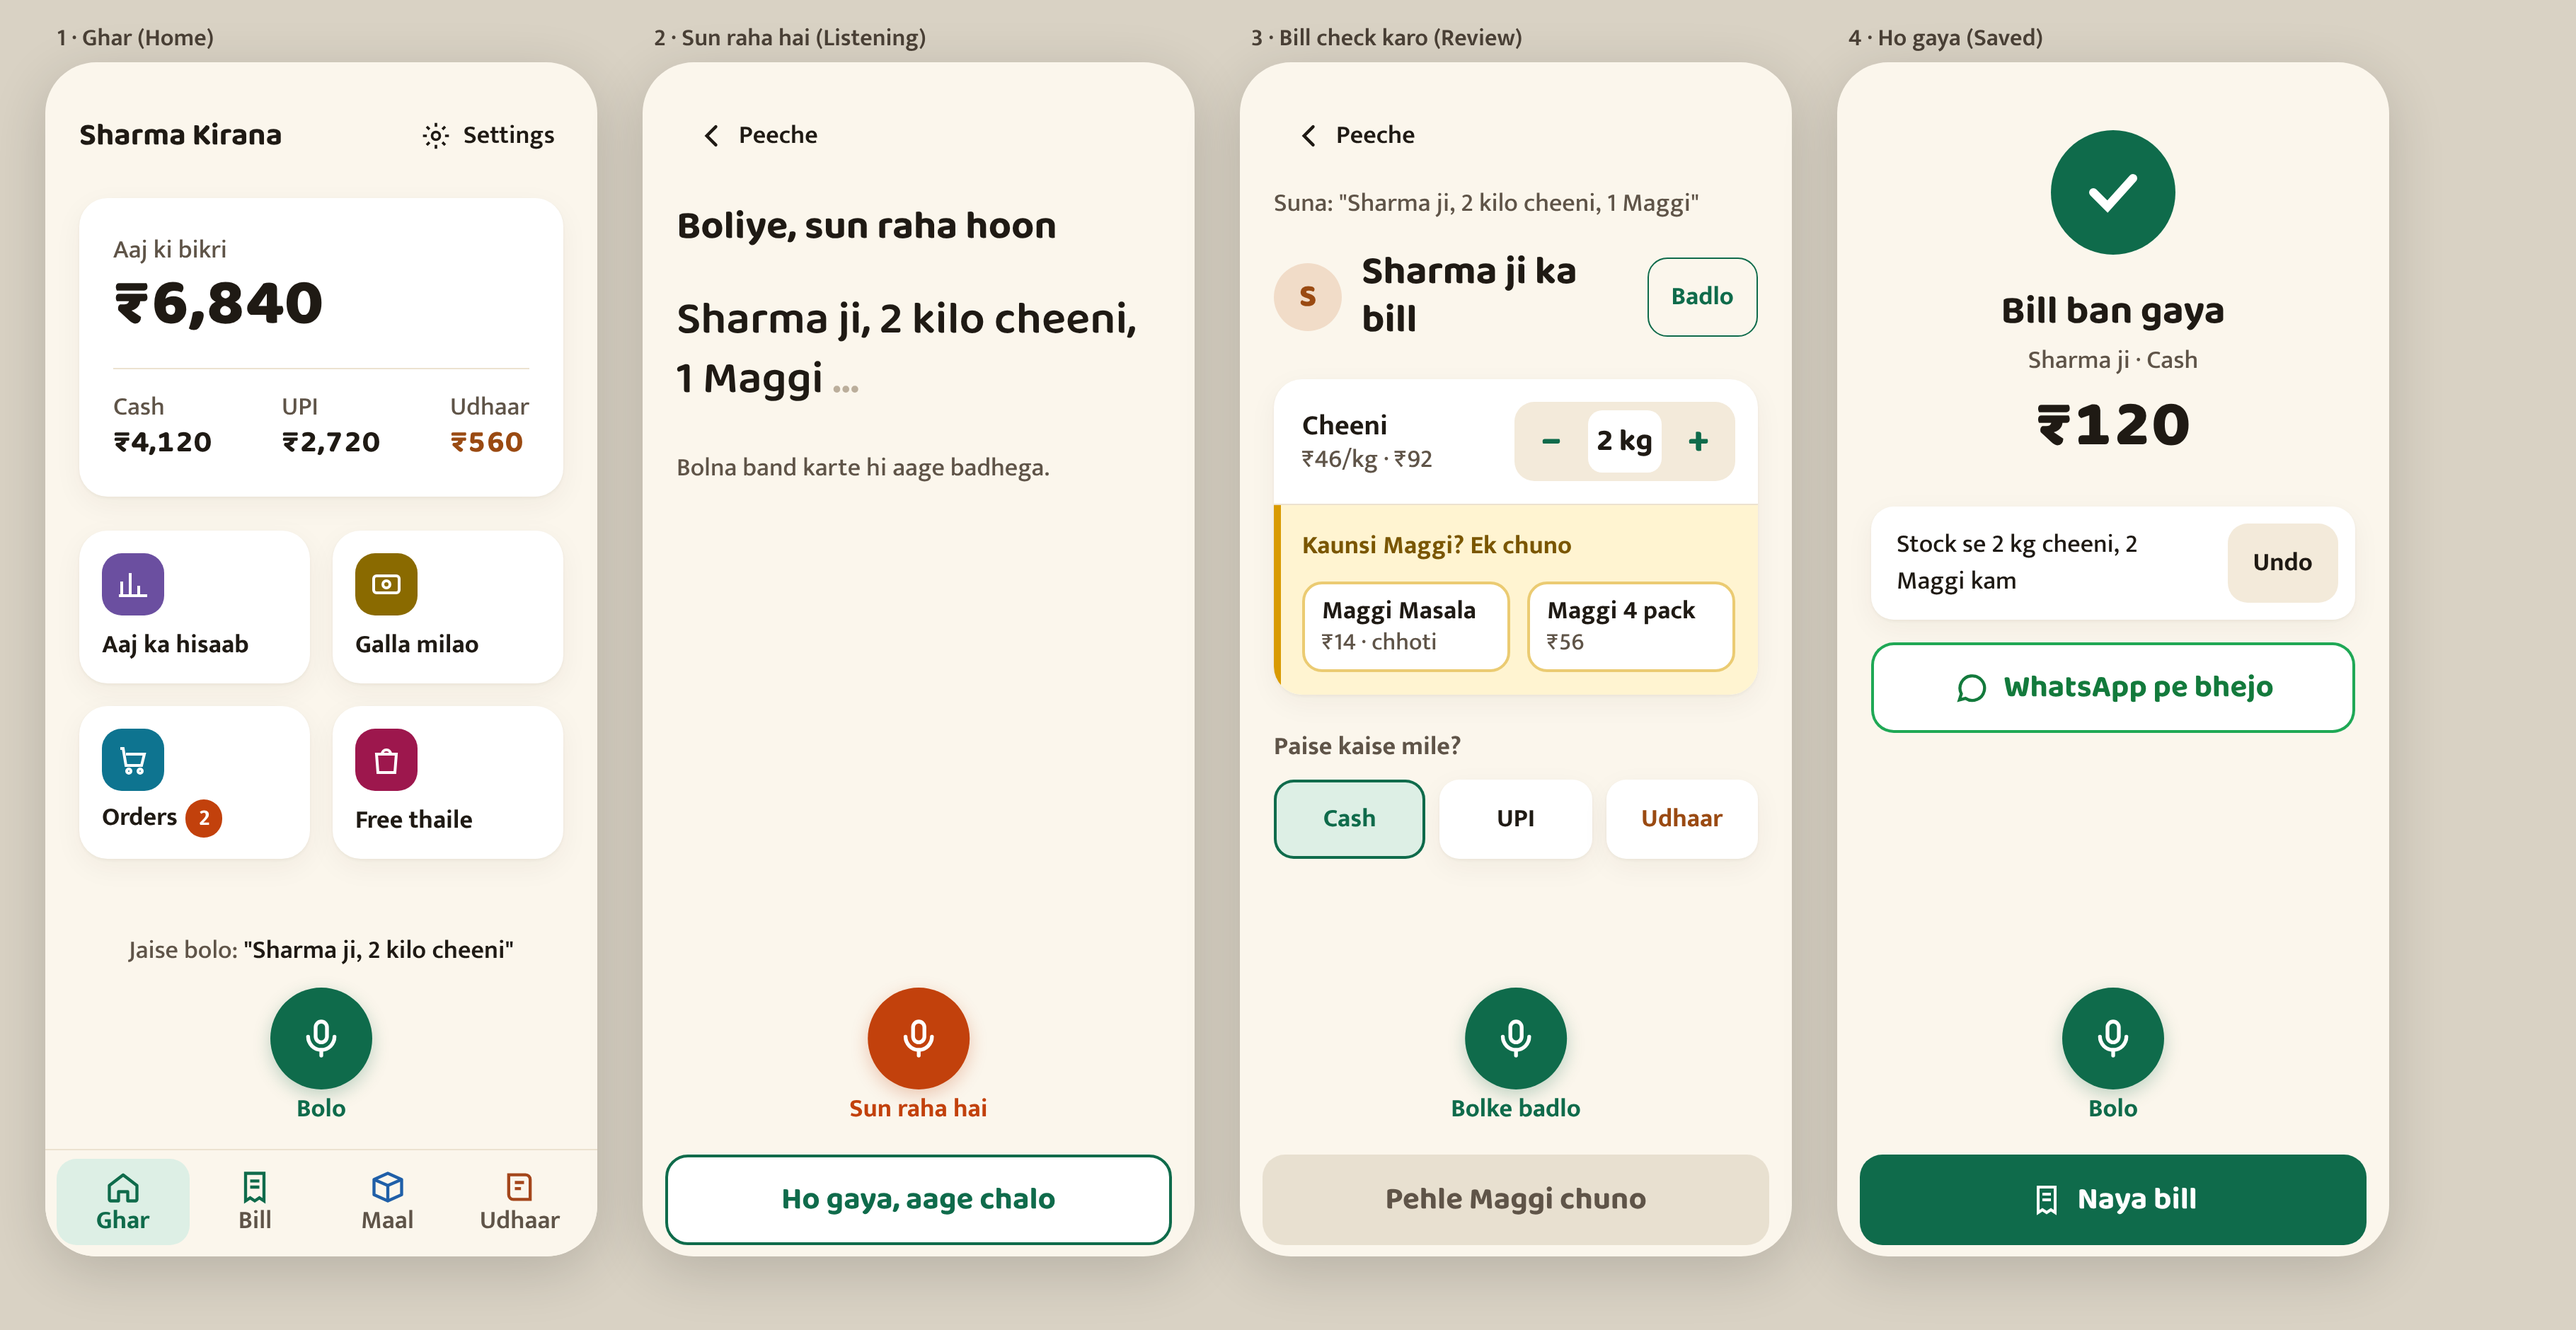
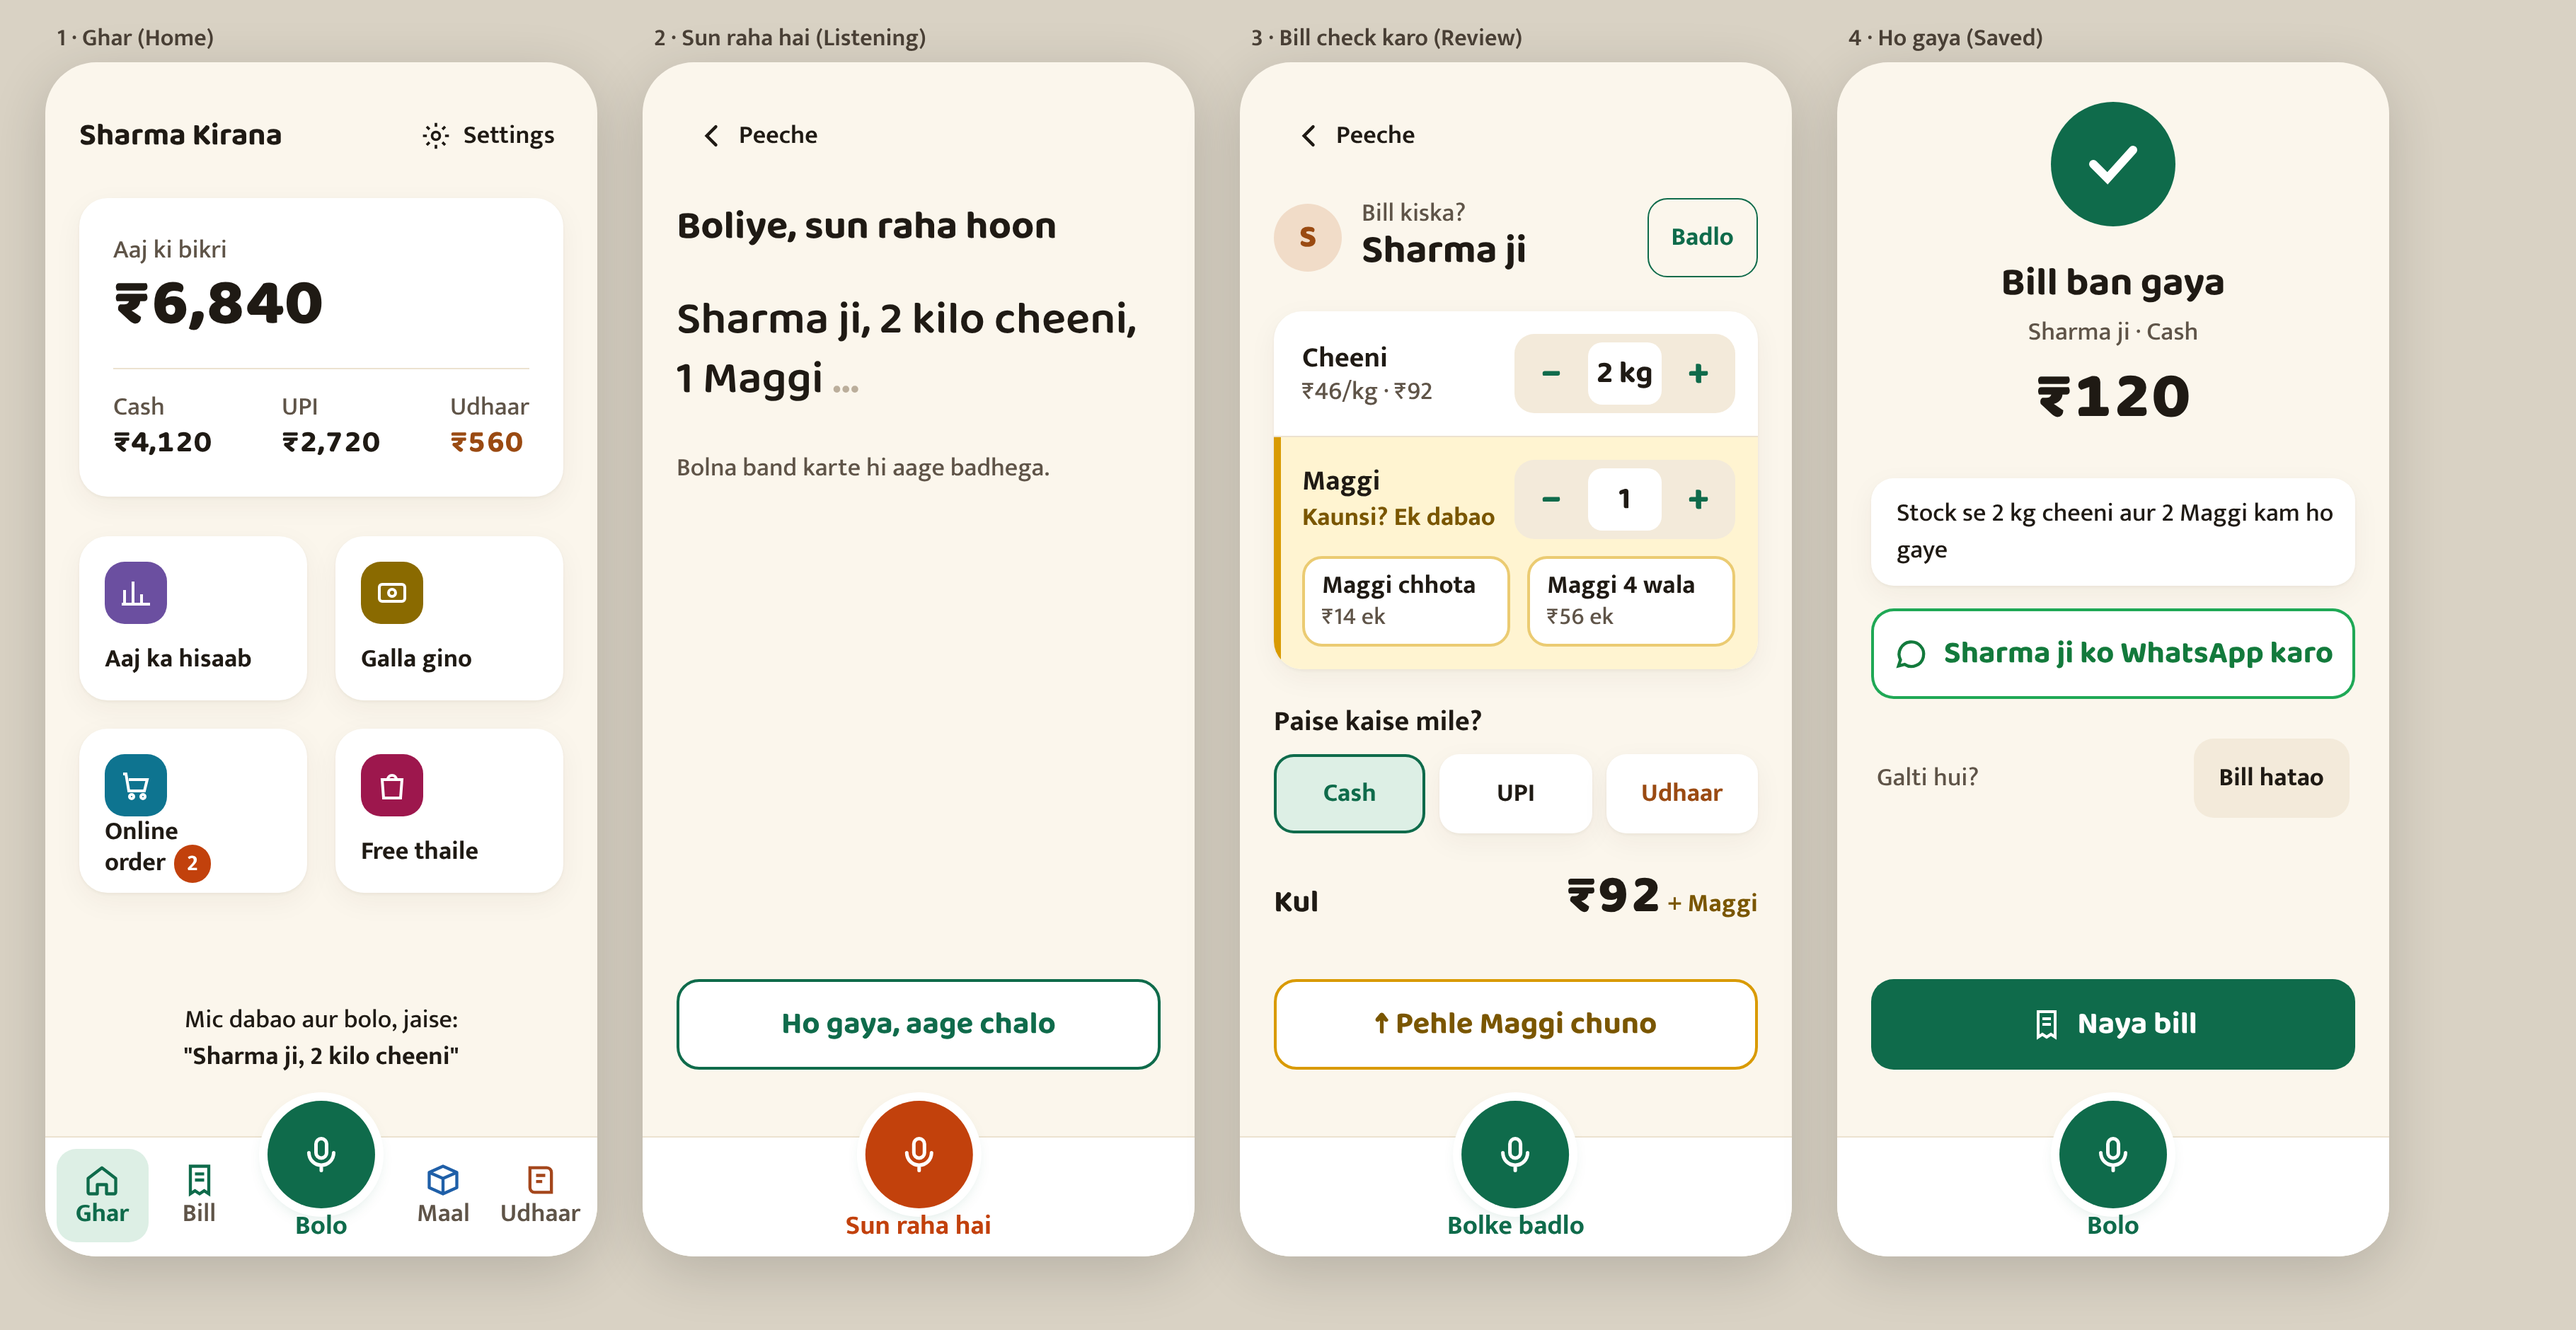
Design: owner-test round 1 fixes (docked mic, totals, Maggi qty, clearer words), per-screen images
Claude-Session: https://claude.ai/code/session_01Dc9KGnrAUXnUwkJ5n5yUhd

diff --git a/design/preview.html b/design/preview.html
@@ -15,9 +15,9 @@
 .sales{background:var(--s);border-radius:20px;box-shadow:var(--sh);padding:24px;margin-top:12px}
 .three{display:flex;justify-content:space-between;margin-top:20px;padding-top:16px;border-top:1px solid var(--line)}
 .three .lab{font-size:18px;line-height:22px}
-.grid{display:grid;grid-template-columns:1fr 1fr;gap:16px;margin-top:24px}
-.tile{background:var(--s);border-radius:20px;box-shadow:var(--sh);height:108px;padding:16px;display:flex;flex-direction:column;justify-content:space-between;font-weight:700;line-height:22px}
-.chip{width:44px;height:44px;border-radius:14px;display:grid;place-items:center;color:#fff}
+.grid{display:grid;grid-template-columns:1fr 1fr;gap:20px;margin-top:28px}
+.tile{background:var(--s);border-radius:20px;box-shadow:var(--sh);height:116px;padding:18px;display:flex;flex-direction:column;justify-content:space-between;font-weight:700;line-height:22px}
+.chip{flex:none;width:44px;height:44px;border-radius:14px;display:grid;place-items:center;color:#fff}
 .badge{background:#C2410C;color:#fff;border-radius:999px;padding:0 9px;font-size:16px;line-height:24px;margin-left:6px}
 .hint{text-align:center;color:var(--ink2);position:absolute;left:24px;right:24px;bottom:204px;line-height:24px}
 .hint b{color:var(--ink);font-weight:600}
@@ -47,18 +47,31 @@
 .u{background:var(--uns);display:block;box-shadow:inset 5px 0 0 var(--unsb)}
 .ask{color:#7A5600;font-weight:700;margin-bottom:12px}
 .opts{display:flex;gap:12px}.opt{flex:1;height:64px;border-radius:14px;background:#fff;border:2px solid #EBCB72;display:flex;flex-direction:column;justify-content:center;padding:0 12px;font-weight:700;line-height:22px}.opt span{font-weight:500;color:var(--ink2);font-size:17px}
-.sec{font-weight:700;color:var(--ink2);margin:24px 0 10px}
+.sec{font-weight:700;color:var(--ink);font-size:20px;margin:24px 0 10px}
 .pay{display:grid;grid-template-columns:1fr 1fr 1fr;gap:10px}
 .pb{height:56px;border-radius:14px;background:#fff;box-shadow:var(--sh);display:flex;align-items:center;justify-content:center;font-weight:700}
 .pb.on{background:var(--acs);color:var(--ac);box-shadow:inset 0 0 0 2px var(--ac)}
 /* listening + saved */
 .live{font:600 32px/42px 'Baloo 2';margin-top:28px}.live .dim{color:#BBAE9B}
 .note{color:var(--ink2);margin-top:28px}
-.ok{display:flex;flex-direction:column;align-items:center;text-align:center;margin-top:48px}
+.ok{display:flex;flex-direction:column;align-items:center;text-align:center;margin-top:28px}
 .okc{width:88px;height:88px;border-radius:50%;background:var(--ac);display:grid;place-items:center}
 .changed{display:flex;align-items:center;justify-content:space-between;gap:12px;background:var(--s);border-radius:16px;box-shadow:var(--sh);padding:12px 12px 12px 18px;margin-top:32px}
 .undo{height:56px;padding:0 18px;border-radius:14px;background:var(--s2);font-weight:700;display:flex;align-items:center;flex:none}
 .wa{height:64px;border-radius:16px;background:#fff;box-shadow:var(--sh);display:flex;align-items:center;justify-content:center;gap:10px;font:700 22px 'Baloo 2';margin-top:16px}
+
+.band{position:absolute;left:0;right:0;bottom:0;height:84px;background:#fff;box-shadow:0 -1px 0 var(--line);display:grid;grid-template-columns:1fr 1fr 104px 1fr 1fr;padding:8px 6px 10px}
+.band .tab{margin:0 2px}
+.band .slot{}
+.dock{position:absolute;left:50%;bottom:10px;transform:translateX(-50%);display:flex;flex-direction:column;align-items:center}
+.dock .c{width:76px;height:76px;border-radius:50%;background:var(--ac);display:grid;place-items:center;box-shadow:0 0 0 6px #fff,0 4px 12px rgba(15,107,75,.22)}
+.dock span{font:700 19px/22px Mukta;color:var(--ac);margin-top:2px}
+.act{position:absolute;left:24px;right:24px;bottom:132px;height:64px;border-radius:16px;display:flex;align-items:center;justify-content:center;gap:10px;font:700 22px 'Baloo 2'}
+.say{position:absolute;left:24px;right:24px;bottom:128px;text-align:center;color:var(--ink);line-height:26px}.say b{font-weight:700}
+.qrow{display:flex;justify-content:space-between;align-items:center;margin-bottom:12px}
+.tot{display:flex;justify-content:space-between;align-items:baseline;margin-top:20px}
+.warn{background:#fff;border:2px solid var(--unsb);color:#7A5600}
+.undorow{display:flex;justify-content:space-between;align-items:center;margin-top:28px;padding:0 4px}
 </style></head><body>
 <svg width="0" height="0" style="position:absolute"><defs>
 <symbol id="mic" viewBox="0 0 24 24" fill="none" stroke="currentColor" stroke-width="2" stroke-linecap="round"><rect x="9" y="3" width="6" height="11" rx="3"/><path d="M5 11a7 7 0 0 0 14 0M12 18v3"/></symbol>
@@ -83,13 +96,11 @@
 <div class="three"><div><div class="lab">Cash</div><div class="num">₹4,120</div></div><div><div class="lab">UPI</div><div class="num">₹2,720</div></div><div><div class="lab">Udhaar</div><div class="num" style="color:var(--ud)">₹560</div></div></div></div>
 <div class="grid">
 <div class="tile"><div class="chip" style="background:var(--c-his)"><svg width="24" height="24"><use href="#chart"/></svg></div>Aaj ka hisaab</div>
-<div class="tile"><div class="chip" style="background:var(--c-gal)"><svg width="24" height="24"><use href="#cash"/></svg></div>Galla milao</div>
-<div class="tile"><div class="chip" style="background:var(--c-ord)"><svg width="24" height="24"><use href="#cart"/></svg></div><div>Orders<span class="badge">2</span></div></div>
+<div class="tile"><div class="chip" style="background:var(--c-gal)"><svg width="24" height="24"><use href="#cash"/></svg></div>Galla gino</div>
+<div class="tile"><div class="chip" style="background:var(--c-ord)"><svg width="24" height="24"><use href="#cart"/></svg></div><div>Online order<span class="badge">2</span></div></div>
 <div class="tile"><div class="chip" style="background:var(--c-bag)"><svg width="24" height="24"><use href="#bag"/></svg></div>Free thaile</div></div>
 </div>
-<div class="hint">Jaise bolo: <b>"Sharma ji, 2 kilo cheeni"</b></div>
-<div class="mic"><div class="c"><svg width="32" height="32" style="color:#fff"><use href="#mic"/></svg></div><span>Bolo</span></div>
-<div class="tabs"><div class="tab on"><svg width="26" height="26"><use href="#home"/></svg>Ghar</div><div class="tab"><svg width="26" height="26" style="color:var(--ac)"><use href="#bill"/></svg>Bill</div><div class="tab"><svg width="26" height="26" style="color:var(--c-maal)"><use href="#box"/></svg>Maal</div><div class="tab"><svg width="26" height="26" style="color:var(--c-udh)"><use href="#book"/></svg>Udhaar</div></div>
+<div class="say">Mic dabao aur bolo, jaise:<br><b>"Sharma ji, 2 kilo cheeni"</b></div><div class="band"><div class="tab on"><svg width="26" height="26" style="color:inherit"><use href="#home"/></svg>Ghar</div><div class="tab"><svg width="26" height="26" style="color:var(--ac)"><use href="#bill"/></svg>Bill</div><div></div><div class="tab"><svg width="26" height="26" style="color:var(--c-maal)"><use href="#box"/></svg>Maal</div><div class="tab"><svg width="26" height="26" style="color:var(--c-udh)"><use href="#book"/></svg>Udhaar</div></div><div class="dock"><div class="c" style="background:var(--ac)"><svg width="30" height="30" style="color:#fff"><use href="#mic"/></svg></div><span style="color:var(--ac)">Bolo</span></div>
 </div></div>
 
 <div class="wrap"><div class="cap">2 · Sun raha hai (Listening)</div><div class="ph">
@@ -99,34 +110,35 @@
 <div class="live">Sharma ji, 2 kilo cheeni, 1 Maggi <span class="dim">…</span></div>
 <div class="note">Bolna band karte hi aage badhega.</div>
 </div>
-<div class="mic"><div class="c" style="background:#C2410C;box-shadow:0 4px 12px rgba(194,65,12,.25)"><svg width="32" height="32" style="color:#fff"><use href="#mic"/></svg></div><span style="color:#C2410C">Sun raha hai</span></div>
-<div class="bottom outline">Ho gaya, aage chalo</div>
+<div class="act outline">Ho gaya, aage chalo</div>
+<div class="band"></div><div class="dock"><div class="c" style="background:#C2410C"><svg width="30" height="30" style="color:#fff"><use href="#mic"/></svg></div><span style="color:#C2410C">Sun raha hai</span></div>
 </div></div>
 
 <div class="wrap"><div class="cap">3 · Bill check karo (Review)</div><div class="ph">
 <div class="top"><div class="ghost"><svg width="22" height="22"><use href="#back"/></svg>Peeche</div><div></div></div>
 <div class="pad">
-<div class="heard">Suna: "Sharma ji, 2 kilo cheeni, 1 Maggi"</div>
-<div class="who"><div class="av">S</div><div class="t"><div class="h1">Sharma ji ka bill</div></div><div class="link">Badlo</div></div>
+<div class="who" style="margin-top:12px"><div class="av">S</div><div class="t"><div class="lab" style="line-height:20px">Bill kiska?</div><div class="h1">Sharma ji</div></div><div class="link">Badlo</div></div>
 <div class="items">
 <div class="it"><div><div class="nm">Cheeni</div><div class="pr">₹46/kg · ₹92</div></div><div class="step"><i>−</i><em>2 kg</em><i>+</i></div></div>
-<div class="it u"><div class="ask">Kaunsi Maggi? Ek chuno</div><div class="opts"><div class="opt">Maggi Masala<span>₹14 · chhoti</span></div><div class="opt">Maggi 4 pack<span>₹56</span></div></div></div>
+<div class="it u"><div class="qrow"><div><div class="nm">Maggi</div><div class="ask" style="margin:0">Kaunsi? Ek dabao</div></div><div class="step"><i>−</i><em>1</em><i>+</i></div></div><div class="opts"><div class="opt">Maggi chhota<span>₹14 ek</span></div><div class="opt">Maggi 4 wala<span>₹56 ek</span></div></div></div>
 </div>
 <div class="sec">Paise kaise mile?</div>
 <div class="pay"><div class="pb on">Cash</div><div class="pb">UPI</div><div class="pb" style="color:var(--ud)">Udhaar</div></div>
+<div class="tot"><span class="num">Kul</span><span><span class="big" style="font-size:38px">₹92</span> <span style="color:#7A5600;font-weight:700">+ Maggi</span></span></div>
 </div>
-<div class="mic"><div class="c"><svg width="32" height="32" style="color:#fff"><use href="#mic"/></svg></div><span>Bolke badlo</span></div>
-<div class="bottom off">Pehle Maggi chuno</div>
+<div class="act warn">↑ Pehle Maggi chuno</div>
+<div class="band"></div><div class="dock"><div class="c" style="background:var(--ac)"><svg width="30" height="30" style="color:#fff"><use href="#mic"/></svg></div><span style="color:var(--ac)">Bolke badlo</span></div>
 </div></div>
 
 <div class="wrap"><div class="cap">4 · Ho gaya (Saved)</div><div class="ph">
 <div class="pad">
 <div class="ok"><div class="okc"><svg width="48" height="48" style="color:#fff"><use href="#tick"/></svg></div>
 <div class="h1" style="margin-top:24px">Bill ban gaya</div><div class="lab" style="margin-top:4px">Sharma ji · Cash</div><div class="big" style="margin-top:8px">₹120</div></div>
-<div class="changed"><span>Stock se 2 kg cheeni, 2 Maggi kam</span><div class="undo">Undo</div></div>
-<div class="wa" style="color:#137A3C;box-shadow:inset 0 0 0 2px #1FA855"><svg width="26" height="26"><use href="#wa"/></svg>WhatsApp pe bhejo</div>
+<div class="changed"><span>Stock se 2 kg cheeni aur 2 Maggi kam ho gaye</span></div>
+<div class="wa" style="color:#137A3C;box-shadow:inset 0 0 0 2px #1FA855"><svg width="26" height="26"><use href="#wa"/></svg>Sharma ji ko WhatsApp karo</div>
+<div class="undorow"><span class="lab">Galti hui?</span><div class="undo">Bill hatao</div></div>
 </div>
-<div class="mic"><div class="c"><svg width="32" height="32" style="color:#fff"><use href="#mic"/></svg></div><span>Bolo</span></div>
-<div class="bottom done"><svg width="24" height="24"><use href="#bill"/></svg>Naya bill</div>
+<div class="act done"><svg width="24" height="24"><use href="#bill"/></svg>Naya bill</div>
+<div class="band"></div><div class="dock"><div class="c" style="background:var(--ac)"><svg width="30" height="30" style="color:#fff"><use href="#mic"/></svg></div><span style="color:var(--ac)">Bolo</span></div>
 </div></div>
 </body></html>
